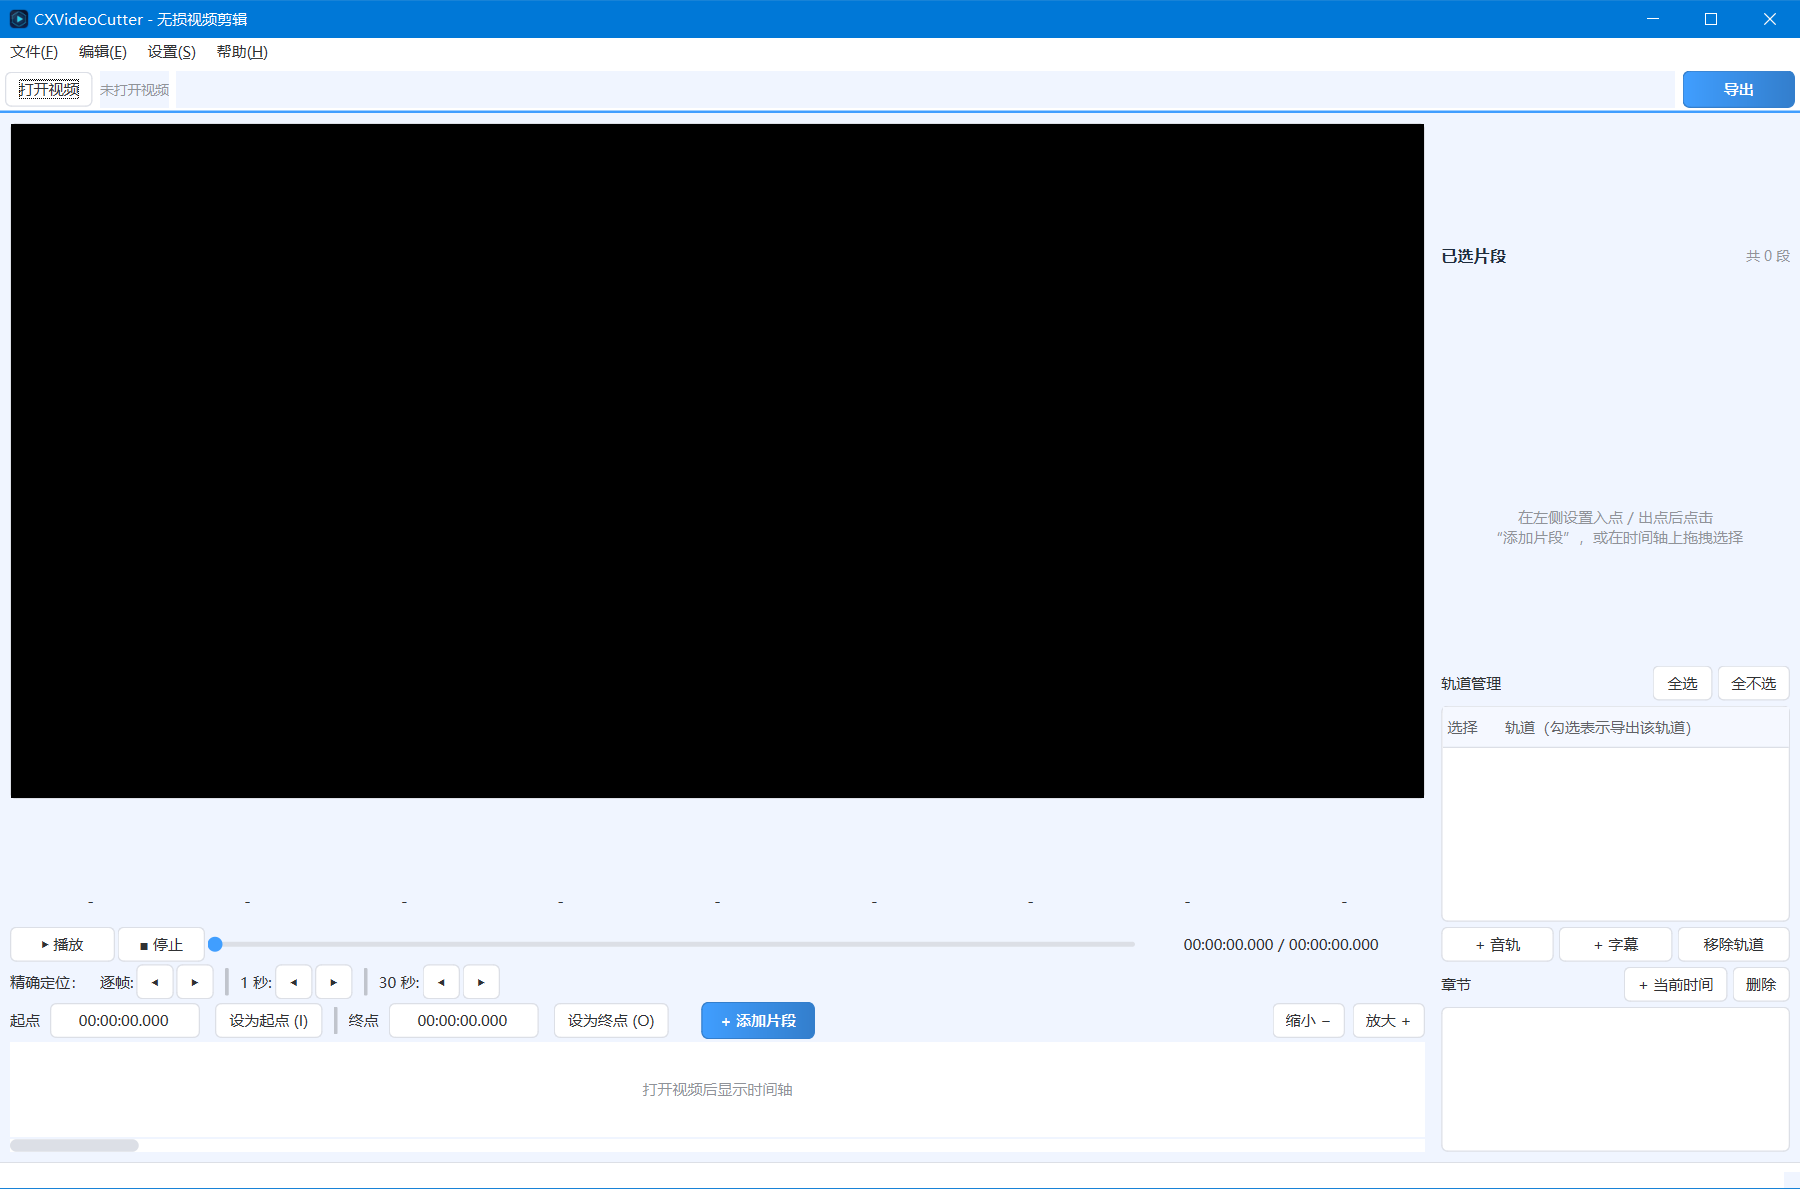
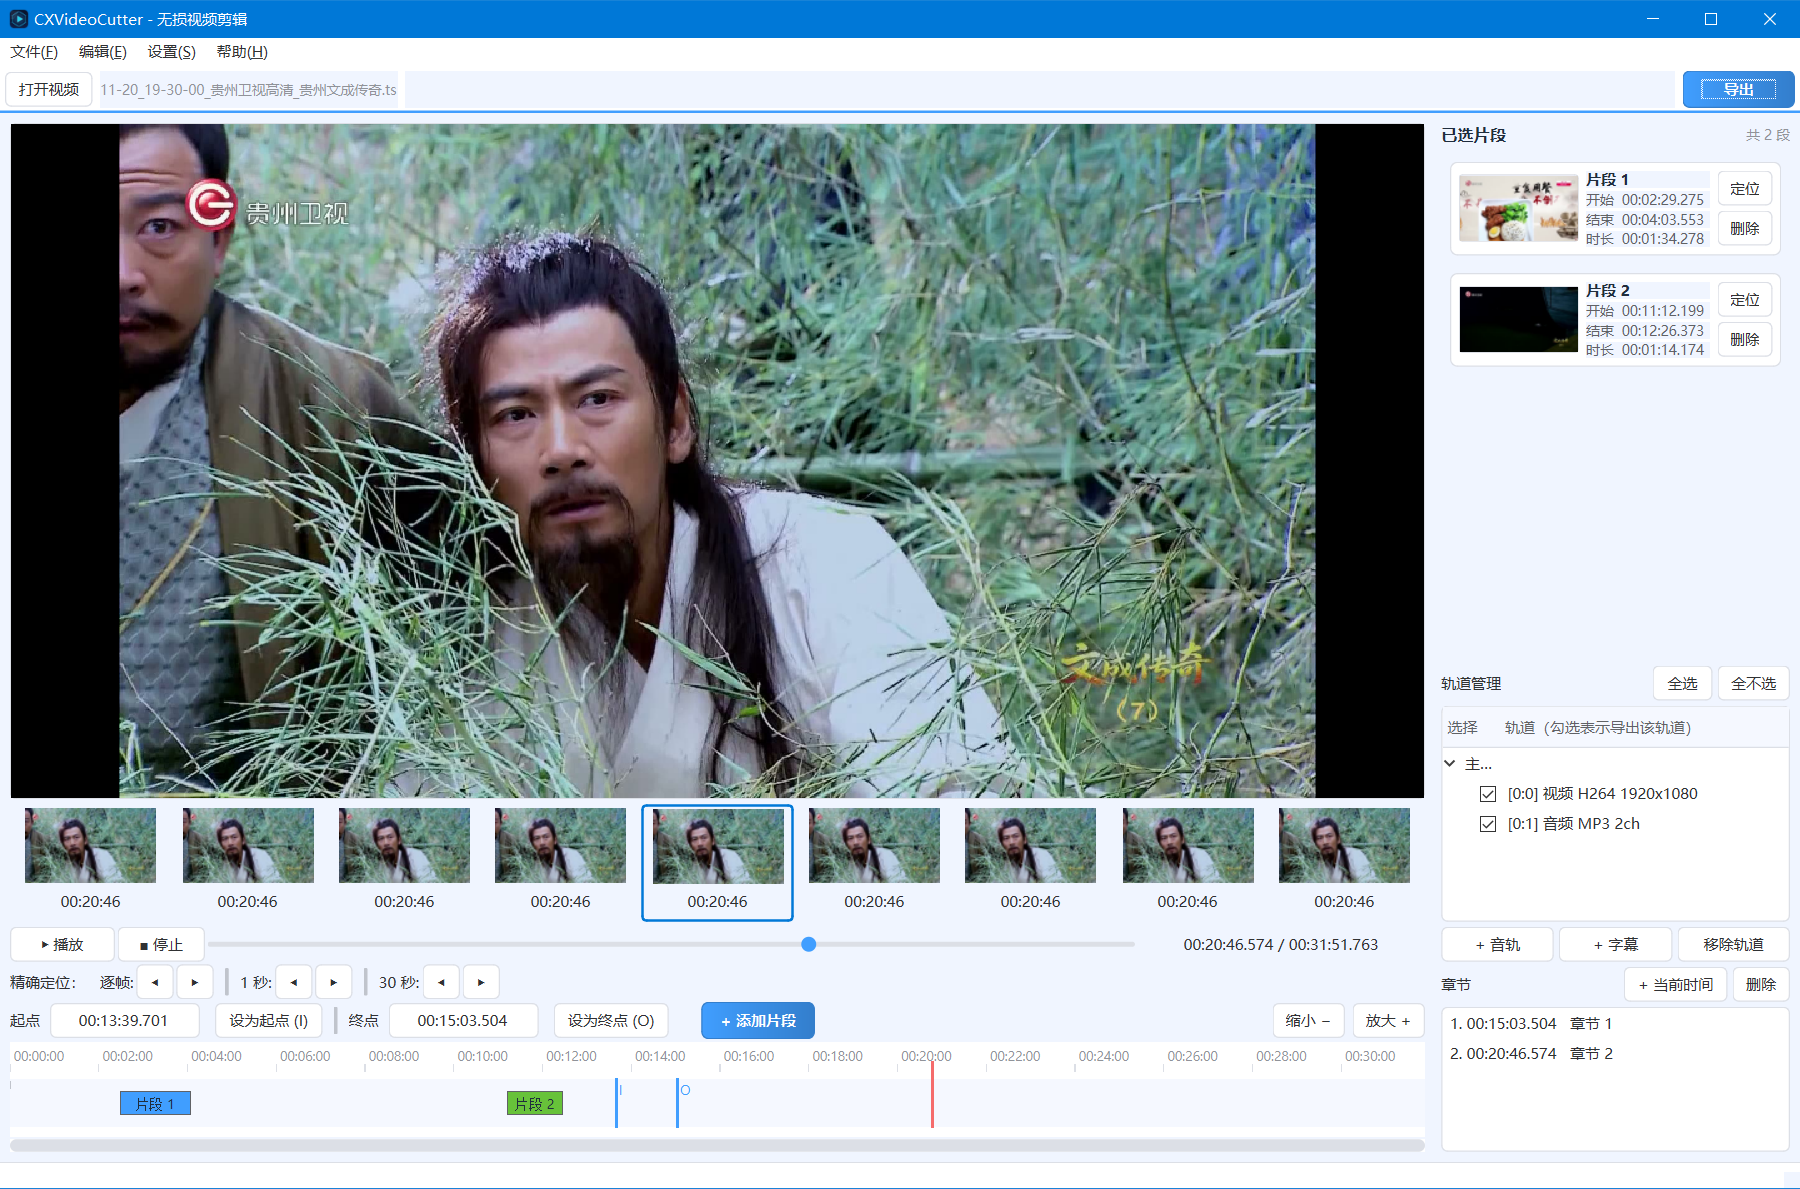
docs: update main window screenshot and README [skip ci]

diff --git a/README.md b/README.md
@@ -77,7 +77,7 @@ macOS 首次打开时，如被 Gatekeeper 拦截，可右键 `.app` 选择“打
 
 ## 界面截图
 
-主界面：预览区、时间轴、帧预览条与右侧面板。
+主界面（简体中文）：打开视频后，顶部为菜单栏与“打开视频 / 导出”按钮；左侧自上而下为视频预览区、帧预览条、播放控制（播放/停止、进度、精确定位）、起止点设置与多段时间轴；右侧为已选片段、轨道管理与章节面板。
 
 ![主界面](docs/images/01-main-window.png)
 
